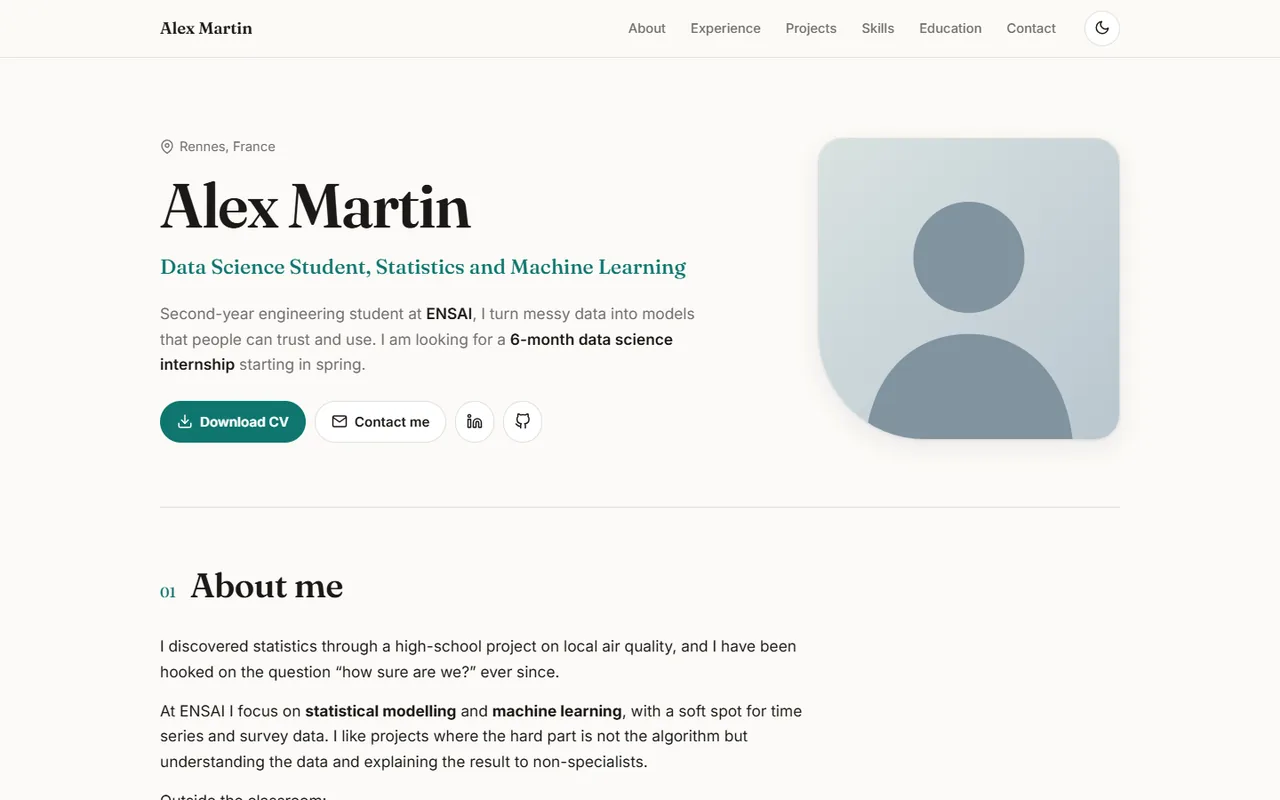
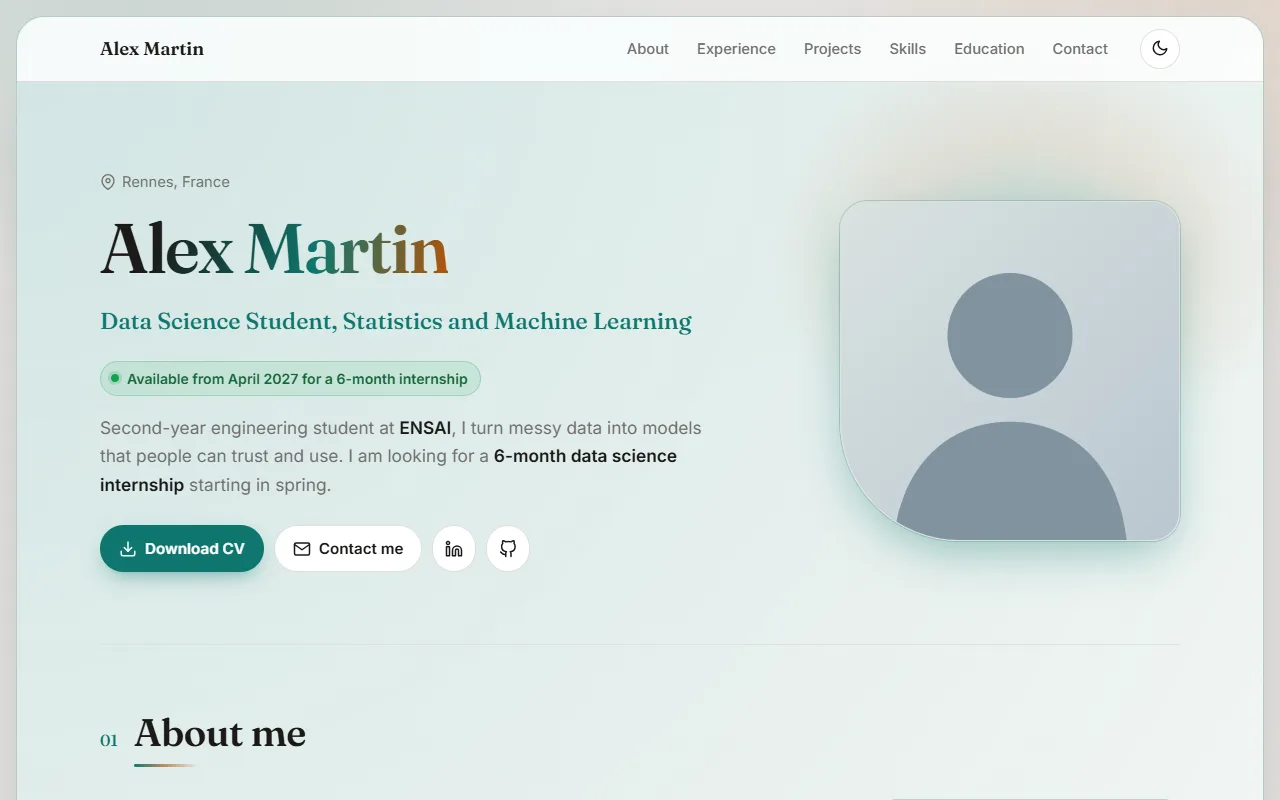
Modeles : panneaux lumineux (competences, formation, contact), titres soulignes ; captures du guide a jour

diff --git a/templates/a/static/style.css b/templates/a/static/style.css
@@ -371,3 +371,23 @@ body {
 @media (max-width: 760px) {
   .shell { width: 100%; margin: 0; border-radius: 0; border: 0; box-shadow: none; }
 }
+
+/* === polish layer (panels for skills, education, contact) === */
+.section-head h2 { position: relative; padding-bottom: 12px; }
+.section-head h2::after { content: ""; position: absolute; left: 0; bottom: 0; width: 64px; height: 3px; border-radius: 3px;
+  background: linear-gradient(90deg, rgb(var(--accent-rgb)), rgba(var(--accent2-rgb), 0.6), transparent); }
+.skill-group, .edu-item {
+  background: radial-gradient(circle at top left, rgba(var(--accent-rgb), 0.12), transparent 45%), linear-gradient(180deg, var(--panel-a), var(--panel-b));
+  border: 1px solid color-mix(in srgb, var(--line) 85%, rgb(var(--accent-rgb)) 15%); border-radius: 18px;
+  box-shadow: var(--shadow); transition: transform .25s ease, box-shadow .25s ease, border-color .25s ease; padding: 20px 22px; }
+.skill-group:hover, .edu-item:hover { transform: translateY(-3px); box-shadow: var(--shadow-lift), 0 12px 36px -18px rgba(var(--accent-rgb), .5); border-color: rgba(var(--accent-rgb), .45); }
+.skills-grid { gap: 20px; }
+.edu-list { display: grid; gap: 16px; }
+.edu-item, .edu-item:first-child { padding: 22px 24px; border-bottom: 1px solid color-mix(in srgb, var(--line) 85%, rgb(var(--accent-rgb)) 15%); }
+.contact-panel { position: relative; overflow: hidden; text-align: center; padding: 56px 32px; border-radius: 24px;
+  background: radial-gradient(600px 300px at 50% 0%, rgba(var(--accent-rgb), 0.22), transparent 70%), radial-gradient(400px 260px at 100% 100%, rgba(var(--accent2-rgb), 0.14), transparent 70%), linear-gradient(180deg, var(--panel-a), var(--panel-b));
+  border: 1px solid color-mix(in srgb, var(--line) 70%, rgb(var(--accent-rgb)) 30%); box-shadow: var(--shadow-lift); }
+.contact-panel .contact-text { margin-inline: auto; }
+.contact-panel .actions { justify-content: center; }
+@media (max-width: 640px) { .contact-panel { padding: 40px 20px; } .edu-item { grid-template-columns: 1fr; gap: 6px; } }
+@media (prefers-reduced-motion: reduce) { .skill-group:hover, .edu-item:hover { transform: none; } }

diff --git a/templates/c/static/style.css b/templates/c/static/style.css
@@ -319,3 +319,16 @@ body {
 @media (max-width: 760px) {
   .layout { width: 100%; margin: 0; border-radius: 0; border: 0; box-shadow: none; }
 }
+
+/* === polish layer (panels for skills, education, contact) === */
+.section-head h2 { position: relative; padding-bottom: 12px; }
+.section-head h2::after { content: ""; position: absolute; left: 0; bottom: 0; width: 64px; height: 3px; border-radius: 3px;
+  background: linear-gradient(90deg, rgb(var(--accent2-rgb)), rgba(var(--accent2-rgb), 0.6), transparent); }
+.skill-group {
+  background: radial-gradient(circle at top left, rgba(var(--accent2-rgb), 0.12), transparent 45%), linear-gradient(180deg, var(--panel-a), var(--panel-b));
+  border: 1px solid color-mix(in srgb, var(--line) 85%, rgb(var(--accent2-rgb)) 15%); border-radius: 18px;
+  box-shadow: var(--shadow); transition: transform .25s ease, box-shadow .25s ease, border-color .25s ease; padding: 18px 20px; }
+.skill-group:hover { transform: translateY(-3px); box-shadow: var(--shadow-lift), 0 12px 36px -18px rgba(var(--accent2-rgb), .5); border-color: rgba(var(--accent2-rgb), .45); }
+.skills { gap: 18px; }
+.contact-box { background: radial-gradient(600px 300px at 50% 0%, rgba(var(--accent2-rgb), 0.2), transparent 70%), linear-gradient(180deg, var(--panel-a), var(--panel-b)); box-shadow: var(--shadow-lift); }
+@media (prefers-reduced-motion: reduce) { .skill-group:hover { transform: none; } }

diff --git a/README.html b/README.html
@@ -307,6 +307,11 @@ sections:
 <td>ville, pays</td>
 </tr>
 <tr>
+<td><code>availability</code></td>
+<td>non</td>
+<td>phrase courte affichée dans un badge vert en haut de la page (ex. « Disponible dès avril 2027 pour un stage de 6 mois »)</td>
+</tr>
+<tr>
 <td><code>email</code></td>
 <td>non</td>
 <td>si renseigné, un bouton « Envoyer un e-mail » apparaît. Sinon, aucune adresse n'est affichée</td>
@@ -348,6 +353,7 @@ sections:
 name: Camille Durand
 headline: Élève ingénieure en data science
 location: Rennes, France
+availability: &quot;Available from April 2027 for a 6-month internship&quot;
 email: camille.durand@example.com
 phone: &quot;+33 6 00 00 00 00&quot;
 show_phone: false

diff --git a/templates/b/static/style.css b/templates/b/static/style.css
@@ -322,3 +322,7 @@ body {
 @media (max-width: 760px) {
   .shell { width: 100%; margin: 0; border-radius: 0; border: 0; box-shadow: none; }
 }
+
+/* === polish layer (panels for skills, education, contact) === */
+.contact-card .icon { display: grid; place-items: center; width: 44px; height: 44px; border-radius: 12px; background: rgba(var(--accent-rgb), 0.12); box-shadow: 0 0 0 1px rgba(var(--accent-rgb), 0.18), 0 8px 20px -10px rgba(var(--accent-rgb), 0.6); }
+.bar span { background: linear-gradient(90deg, rgb(var(--accent-rgb)), color-mix(in srgb, rgb(var(--accent-rgb)) 60%, #fff)); box-shadow: 0 0 10px rgba(var(--accent-rgb), 0.5); }

diff --git a/templates/a/index.html b/templates/a/index.html
@@ -154,9 +154,11 @@
 {% if visible.contact %}{% set n.i = n.i + 1 %}
 <section class="section wrap contact" id="contact" aria-labelledby="contact-title">
   {{ section_head(n.i, "contact", t) }}
-  <p class="contact-title">{{ t.contact_title }}</p>
-  <p class="contact-text">{{ t.contact_text }}</p>
-  <div class="actions">{{ contact_buttons(profile, t, root) }}</div>
+  <div class="contact-panel">
+    <p class="contact-title">{{ t.contact_title }}</p>
+    <p class="contact-text">{{ t.contact_text }}</p>
+    <div class="actions">{{ contact_buttons(profile, t, root) }}</div>
+  </div>
 </section>
 {% endif %}
 {% endblock %}
